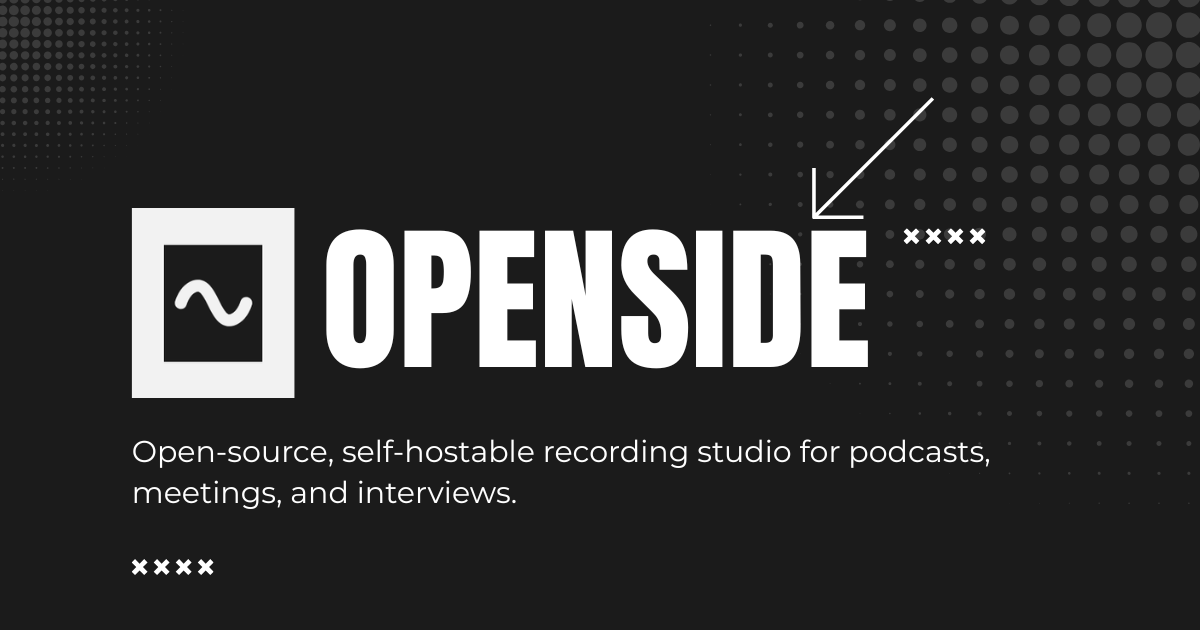
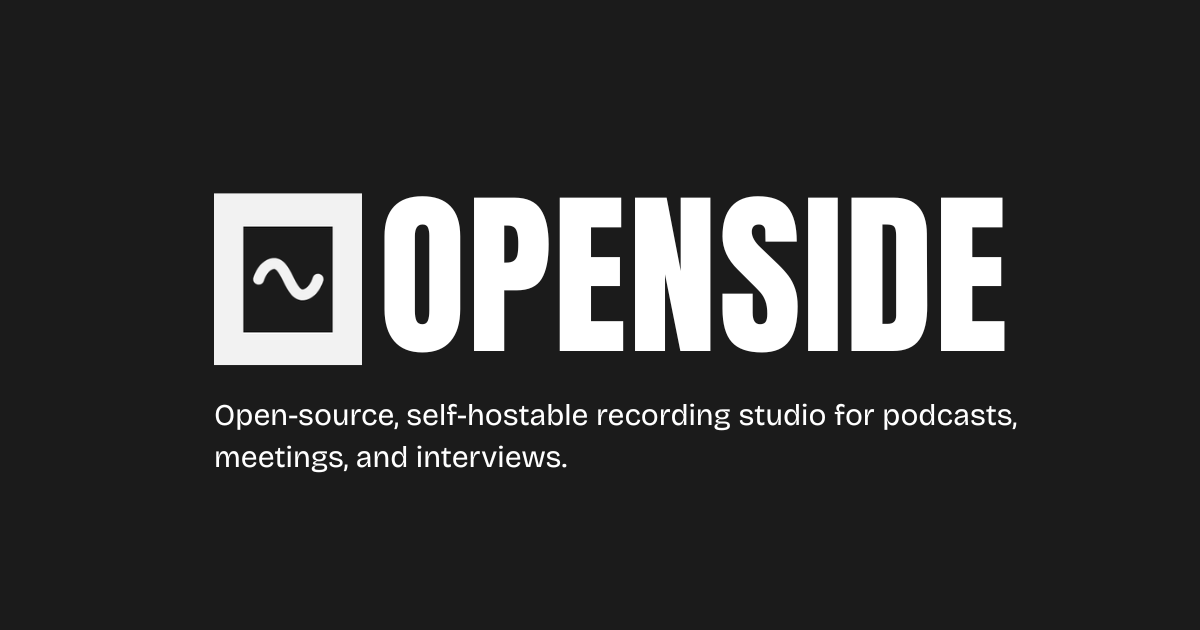
Add borders to space video/screen-share tiles and invite card, update OG image and remove em dashes from metadata
Claude-Session: https://claude.ai/code/session_01C7KT7fhZdyScgkutp1XyFC

diff --git a/web/index.html b/web/index.html
@@ -18,7 +18,7 @@
     <!-- Open Graph -->
     <meta property="og:type" content="website" />
     <meta property="og:site_name" content="Openside" />
-    <meta property="og:title" content="Openside — Open-source recording studio" />
+    <meta property="og:title" content="Openside: Open-source recording studio" />
     <meta
       property="og:description"
       content="Open-source, self-hostable recording studio for podcasts, meetings, and interviews. Multi-track, per-participant recording in studio quality."
@@ -27,11 +27,11 @@
     <meta property="og:image" content="https://openside.pro/img/og.png" />
     <meta property="og:image:width" content="1200" />
     <meta property="og:image:height" content="630" />
-    <meta property="og:image:alt" content="Openside — open-source recording studio" />
+    <meta property="og:image:alt" content="Openside: open-source recording studio" />
 
     <!-- Twitter -->
     <meta name="twitter:card" content="summary_large_image" />
-    <meta name="twitter:title" content="Openside — Open-source recording studio" />
+    <meta name="twitter:title" content="Openside: Open-source recording studio" />
     <meta
       name="twitter:description"
       content="Open-source, self-hostable recording studio for podcasts, meetings, and interviews. Multi-track, per-participant recording in studio quality."

diff --git a/web/src/components/Space/livekit/LiveKitVideoStage.tsx b/web/src/components/Space/livekit/LiveKitVideoStage.tsx
@@ -216,7 +216,7 @@ const InvitePanel = ({ roomCode, spaceId, onDismiss }: InvitePanelProps) => {
   };
 
   return (
-    <div className="relative flex h-full min-h-[180px] flex-col items-center justify-center gap-6 rounded-xl bg-primary p-4 sm:p-8">
+    <div className="relative flex h-full min-h-[180px] flex-col items-center justify-center gap-6 rounded-xl border border-border bg-primary p-4 sm:p-8">
       <button
         type="button"
         onClick={onDismiss}
@@ -697,7 +697,7 @@ const ParticipantFrame = ({
       onClick={onClick}
       role={onClick ? "button" : undefined}
       style={aspectRatio ? { aspectRatio } : undefined}
-      className={`group relative mx-auto min-h-0 overflow-hidden rounded-xl ${
+      className={`group relative mx-auto min-h-0 overflow-hidden rounded-xl border border-border ${
         aspectRatio ? "h-full w-fit max-w-full" : "h-full w-full"
       } ${
         showHandRaised
